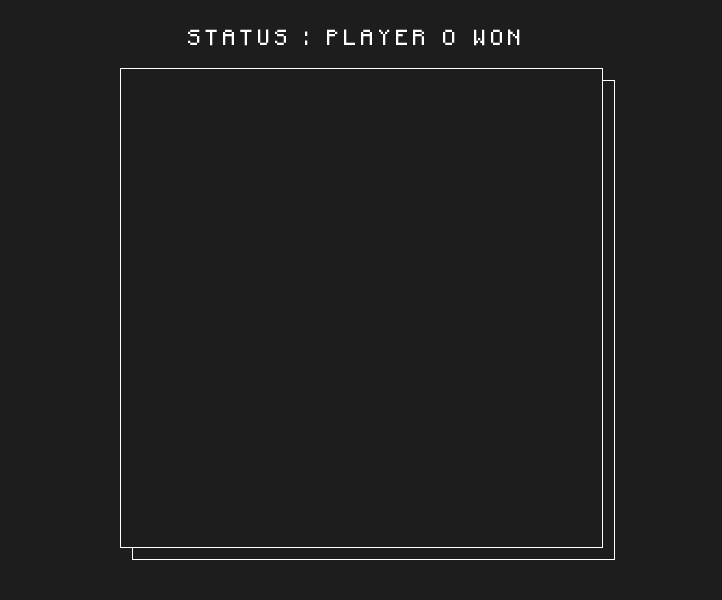
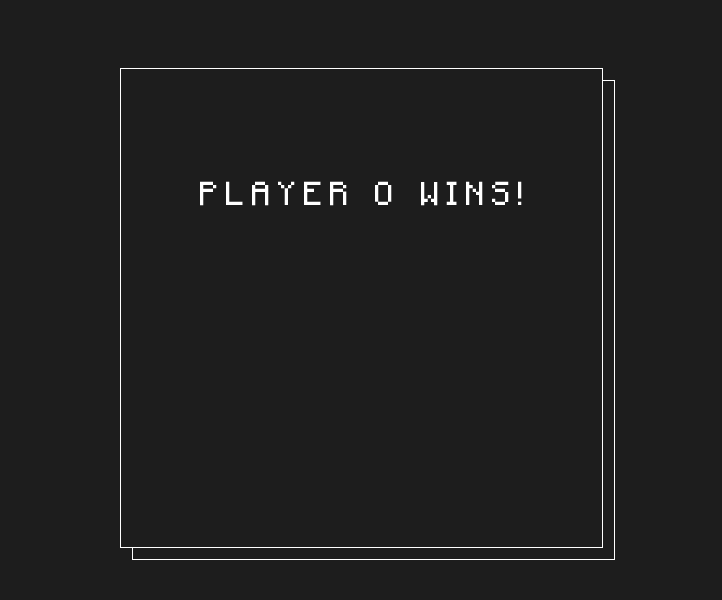
Complete Multiplayer Section
Multiplayer is now usable, yet to work on
singleplayer

diff --git a/main.py b/main.py
@@ -9,19 +9,18 @@ def __main__():
     window.title('TicTacToe - The Game')
     window.resizable(height= False, width= False)
 
-    totalMultiplayer = 0
-
     # Pages :
     main_menu = Frame(window)
     single_player  = Frame(window)
     multi_player = Frame(window)
+    win_screen = Frame(window)
 
     # Page switcher
     def switch_page(frame):
         frame.tkraise()
 
     # Arranging all frames
-    for frames in (main_menu,single_player,multi_player):
+    for frames in (main_menu,single_player,multi_player,win_screen):
         frames.grid(row=0, column=0, sticky='news')
 
     switch_page(main_menu)
@@ -31,11 +30,11 @@ def __main__():
     single_player_button_img = PhotoImage(file = 'main_menu_imgs/singleplayer_button.png')
     multi_player_button_img = PhotoImage(file= 'main_menu_imgs/multiplayer_image.png' )
     exit_button_img = PhotoImage(file= 'main_menu_imgs/exit_image.png')
-    singlePlayerImage = PhotoImage(file = 'single_player_imgs/single_player_background.png')
-    backButtonImage = PhotoImage(file= 'single_player_imgs/backButtonImage.png')
-    tile_image = PhotoImage(file = 'single_player_imgs/x_x.png')
-    x_image = PhotoImage(file = 'single_player_imgs/x_move.png')
-    o_image = PhotoImage(file= 'single_player_imgs/o_move.png')
+    singlePlayerImage = PhotoImage(file ='singlePlayerImages/single_player_background.png')
+    backButtonImage = PhotoImage(file='singlePlayerImages/backButtonImage.png')
+    tile_image = PhotoImage(file ='singlePlayerImages/x_x.png')
+    x_image = PhotoImage(file ='singlePlayerImages/x_move.png')
+    o_image = PhotoImage(file='singlePlayerImages/o_move.png')
 
     # Lables
     background_main_menu = Label(main_menu,image = main_menu_image, bd = 0, bg = 'black')
@@ -53,11 +52,50 @@ def __main__():
     def pressed_on_exit(exit):
         window.destroy()
 
+
     def single_player_pressed(a):
         switch_page(single_player)
 
     def multi_player_pressed(a):
         switch_page(multi_player)
+
+    def clearTiles():
+        _tile1.config(image= tile_image)
+        _tile2.config(image= tile_image)
+        _tile3.config(image= tile_image)
+        _tile4.config(image= tile_image)
+        _tile5.config(image= tile_image)
+        _tile6.config(image= tile_image)
+        _tile7.config(image= tile_image)
+        _tile8.config(image= tile_image)
+        _tile9.config(image= tile_image)
+
+    def playAgainPressed(e):
+        switch_page(multi_player)
+        clearTiles()
+
+    def returnToMainMenu(a):
+        switch_page(main_menu)
+        clearTiles()
+
+    # win-screens
+
+    x_winscreenImage = PhotoImage(file = 'multi_player_image/playerXwinscreen.png')
+    o_winscreenImage = PhotoImage(file = 'multi_player_image/playerOwinscreen.png')
+    playAgainButtonImage = PhotoImage(file = 'multi_player_image/play again button.png')
+    mainmenuButtonImage=  PhotoImage(file= 'multi_player_image/main_menu.png')
+
+    backgroundWinscreenX = Label(win_screen,image = x_winscreenImage,bd= 0)
+    playAgainButton = Label(win_screen, image = playAgainButtonImage,bd = 0)
+    mainMenuButton = Label(win_screen, image = mainmenuButtonImage, bd = 0)
+
+    backgroundWinscreenX.grid(rowspan= 100,columnspan = 100)
+    playAgainButton.grid(row = 55,column= 50)
+    mainMenuButton.grid(row = 60,column= 50)
+
+    playAgainButton.bind("<Button-1>", playAgainPressed)
+    mainMenuButton.bind("<Button-1>", returnToMainMenu)
+
 
     # ----------------------- SINGLE PLAYER -------------------------------
     background_slngle_playeru = Label(single_player,image = singlePlayerImage, bd = 0, bg = 'black')
@@ -75,7 +113,6 @@ def __main__():
     tile7 = Button(single_player, image= tile_image,bd= 1,command = lambda : button_click(tile7))
     tile8 = Button(single_player, image= tile_image,bd= 1,command = lambda : button_click(tile8))
     tile9 = Button(single_player, image= tile_image,bd= 1,command = lambda : button_click(tile9))
-
 
     # functions
     def backButtonPressed(back):
@@ -107,30 +144,81 @@ def __main__():
     # ----------------- MULTIPLAYER -----------------
     playerXTurn = PhotoImage(file ='multi_player_image/playerXTurn.png')
     playerOTurn = PhotoImage(file ='multi_player_image/playerOTurn.png')
-    refreshIconMultiplayer = PhotoImage(file = 'single_player_imgs/refresh_icon.png')
+    refreshIconMultiplayer = PhotoImage(file ='singlePlayerImages/refresh_icon.png')
+    drawScrene = PhotoImage(file = 'multi_player_image/drawScreen.png')
 
     background_multiplayer = Label(multi_player, image=playerXTurn, bd=0, bg='black')
     backButton = Label(multi_player, image=backButtonImage, bd=0, bg='black')
     refreshbutton = Label(multi_player, image=refreshIconMultiplayer, bd=0, bg='black')
 
+    # Functiosn
+    def playerX_Wins():
+        switch_page(win_screen)
+        backgroundWinscreenX.config(image = x_winscreenImage)
+
+    def playerO_Wins():
+        switch_page(win_screen)
+        backgroundWinscreenX.config(image = o_winscreenImage)
+
     def multiplayer_input(button):
         global MultiplayerCount
-        if MultiplayerCount % 2 == 0:
-            button.config(image = o_image)
-            MultiplayerCount += 1
-            background_multiplayer.config(image = playerXTurn)
+        if button['image'] == 'pyimage7':
+            if MultiplayerCount % 2 == 0:
+                button.config(image = o_image)
+                MultiplayerCount += 1
+                background_multiplayer.config(image = playerXTurn)
+            else:
+                button.config(image = x_image)
+                MultiplayerCount += 1
+                background_multiplayer.config(image = playerOTurn)
         else:
-            button.config(image = x_image)
-            MultiplayerCount += 1
-            background_multiplayer.config(image = playerOTurn)
+            return None
+
 
         x_placed,y_placed = 'pyimage8','pyimage9'
 
-        # WIN OR LOOSE
+        # check weather X won!
         if _tile1['image'] == x_placed and _tile2['image'] == x_placed and _tile3['image'] == x_placed:
-            _tile1.config(bg = '#61f91a')
-            _tile2.config(bg = '#61f91a')
-            _tile3.config(bg = '#61f91a')
+            playerX_Wins()
+        elif _tile4['image'] == x_placed and _tile5['image'] == x_placed and _tile6['image'] == x_placed:
+            playerX_Wins()
+        elif _tile7['image'] == x_placed and _tile8['image'] == x_placed and _tile9['image'] == x_placed:
+            playerX_Wins()
+        elif _tile1['image'] == x_placed and _tile4['image'] == x_placed and _tile7['image'] == x_placed:
+            playerX_Wins()
+        elif _tile2['image'] == x_placed and _tile5['image'] == x_placed and _tile8['image'] == x_placed:
+            playerX_Wins()
+        elif _tile3['image'] == x_placed and _tile6['image'] == x_placed and _tile9['image'] == x_placed:
+            playerX_Wins()
+        elif _tile1['image'] == x_placed and _tile5['image'] == x_placed and _tile9['image'] == x_placed:
+            playerX_Wins()
+        elif _tile3['image'] == x_placed and _tile5['image'] == x_placed and _tile7['image'] == x_placed:
+            playerX_Wins()
+
+        # check weather O won!
+        if  _tile1['image'] == y_placed and _tile2['image'] == y_placed and _tile3['image'] == y_placed:
+            playerO_Wins()
+        elif _tile4['image'] == y_placed and _tile5['image'] == y_placed and _tile6['image'] == y_placed:
+            playerO_Wins()
+        elif _tile7['image'] == y_placed and _tile8['image'] == y_placed and _tile9['image'] == y_placed:
+            playerO_Wins()
+        elif _tile1['image'] == y_placed and _tile4['image'] == y_placed and _tile7['image'] == y_placed:
+            playerO_Wins()
+        elif _tile2['image'] == y_placed and _tile5['image'] == y_placed and _tile8['image'] == y_placed:
+            playerO_Wins()
+        elif _tile3['image'] == y_placed and _tile6['image'] == y_placed and _tile9['image'] == y_placed:
+            playerO_Wins()
+        elif _tile1['image'] == y_placed and _tile5['image'] == y_placed and _tile9['image'] == y_placed:
+            playerO_Wins()
+        elif _tile3['image'] == y_placed and _tile5['image'] == y_placed and _tile7['image'] == y_placed:
+            playerO_Wins()
+
+        # check for draw!
+        if _tile1['image'] != 'pyimage7' and _tile2['image'] != 'pyimage7' and _tile3['image'] != 'pyimage7':
+            if _tile4['image'] != 'pyimage7' and _tile5['image'] != 'pyimage7' and _tile6['image'] != 'pyimage7':
+                if _tile7['image'] != 'pyimage7' and _tile8['image'] != 'pyimage7' and _tile9['image'] != 'pyimage7':
+                    backgroundWinscreenX.config(image = drawScrene)
+                    switch_page(win_screen)
 
     def refreshMultiPlayer(a):
         _tile1.config(image=tile_image,bg = 'white')
@@ -153,9 +241,6 @@ def __main__():
     _tile8 = Button(multi_player, image=tile_image, bd=0, command=lambda: multiplayer_input(_tile8))
     _tile9 = Button(multi_player, image=tile_image, bd=0, command=lambda: multiplayer_input(_tile9))
 
-    # functions
-
-
     background_multiplayer.grid(rowspan=100, columnspan=100)
     backButton.grid(row=0, column=0)
     refreshbutton.grid(row = 0,columnspan= 16)
@@ -168,9 +253,6 @@ def __main__():
     _tile7.grid(row=44, column=13, columnspan=20, rowspan=42)
     _tile8.grid(row=44, column=34, columnspan=25, rowspan=42)
     _tile9.grid(row=44, column=52, columnspan=35, rowspan=42)
-
-
-
 
     exit_button.bind("<Button-1>", pressed_on_exit)
     single_player_button.bind("<Button-1>", single_player_pressed)
